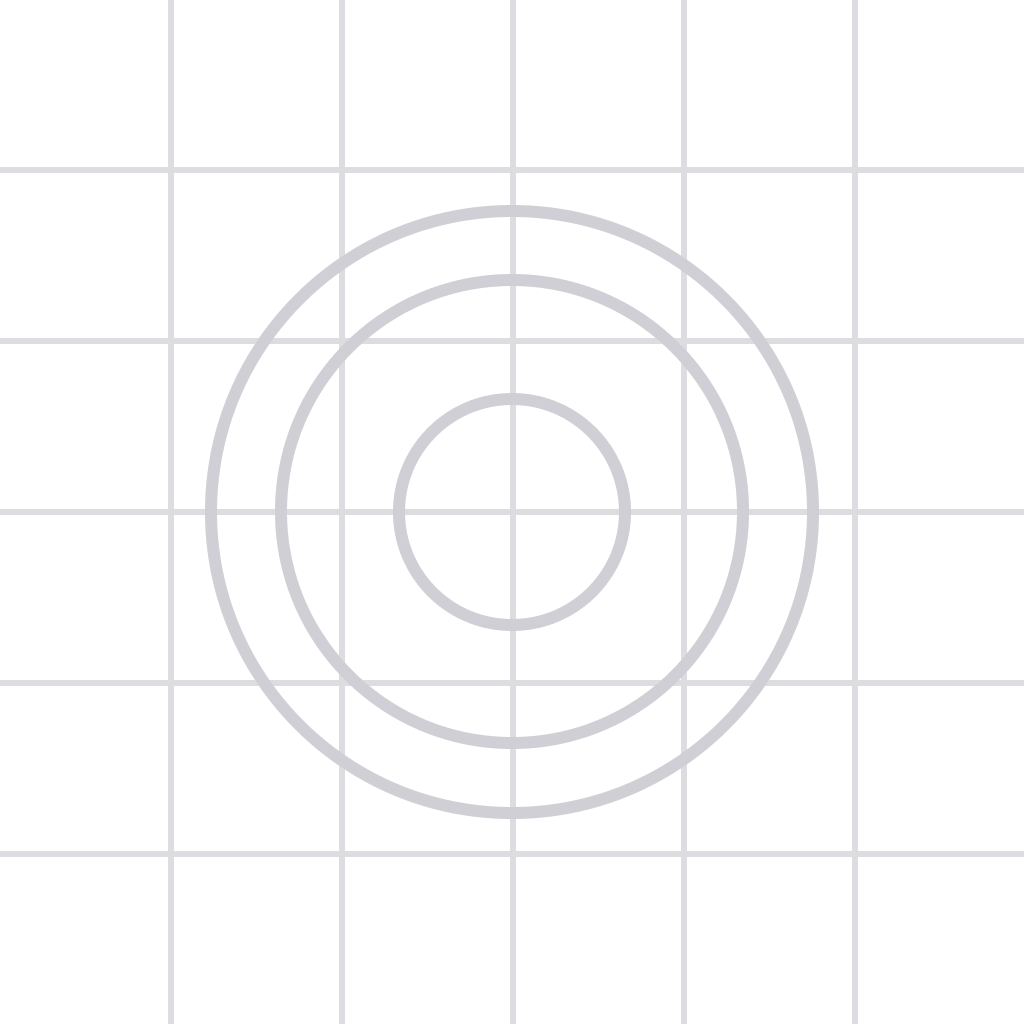
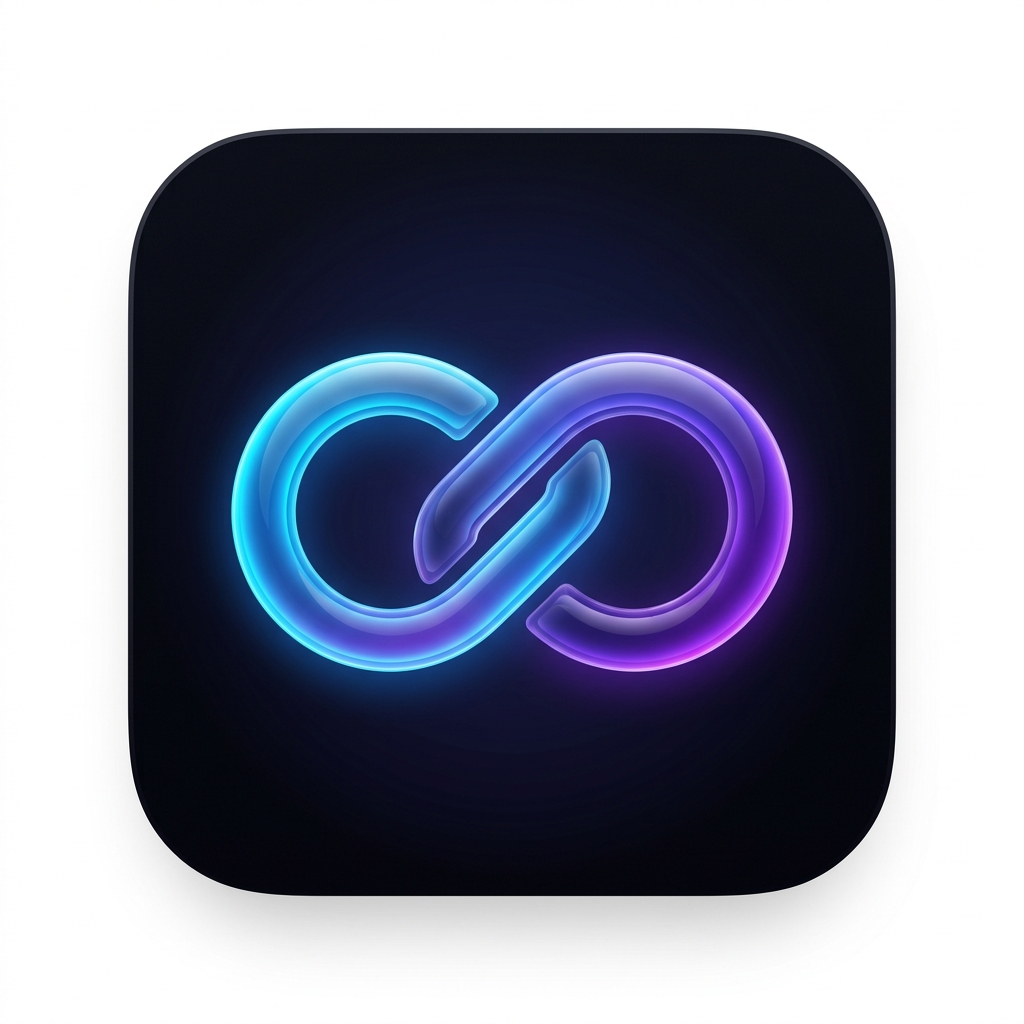
feat(): configurations

diff --git a/app/index.tsx b/app/index.tsx
@@ -1,9 +1,12 @@
 import AsyncStorage from "@react-native-async-storage/async-storage";
 import axios from "axios";
+import * as Clipboard from "expo-clipboard";
 import { useFocusEffect, useRouter } from "expo-router";
 import { useCallback, useEffect, useState } from "react";
 import {
   Alert,
+  AppState,
+  AppStateStatus,
   FlatList,
   Platform,
   RefreshControl,
@@ -47,6 +50,45 @@ export default function Index() {
   // Category Management State
   const [categories, setCategories] = useState(DEFAULT_CATEGORIES);
   const [manageCategoriesVisible, setManageCategoriesVisible] = useState(false);
+
+  // Clipboard State
+  const [clipboardUrl, setClipboardUrl] = useState<string | null>(null);
+  const [showClipboardPrompt, setShowClipboardPrompt] = useState(false);
+  const [savingClipboard, setSavingClipboard] = useState(false);
+
+  const checkClipboard = async () => {
+    try {
+      const hasString = await Clipboard.hasStringAsync();
+      if (!hasString) return;
+
+      const content = await Clipboard.getStringAsync();
+      const urlPattern = /^(https?:\/\/)?([\da-z\.-]+)\.([a-z\.]{2,6})([/\w \.-]*)*\/?(\?.*)?$/;
+      
+      if (urlPattern.test(content)) {
+        const lastSaved = await AsyncStorage.getItem("lastSavedClipboardUrl");
+        if (lastSaved !== content) {
+          setClipboardUrl(content);
+          setShowClipboardPrompt(true);
+        }
+      }
+    } catch (error) {
+      console.error("Clipboard check error:", error);
+    }
+  };
+
+  useEffect(() => {
+    const subscription = AppState.addEventListener("change", (nextAppState: AppStateStatus) => {
+      if (nextAppState === "active") {
+        checkClipboard();
+      }
+    });
+
+    checkClipboard(); // Initial check
+
+    return () => {
+      subscription.remove();
+    };
+  }, []);
 
   useEffect(() => {
     loadCategories();
@@ -129,6 +171,30 @@ export default function Index() {
     setRefreshing(true);
     await fetchLinks();
     setRefreshing(false);
+  };
+
+  const handleSaveClipboard = async () => {
+    if (!clipboardUrl) return;
+    setSavingClipboard(true);
+    try {
+      await axios.post(`${Config.API_URL}/api/links`, { url: clipboardUrl });
+      await AsyncStorage.setItem("lastSavedClipboardUrl", clipboardUrl);
+      setShowClipboardPrompt(false);
+      setClipboardUrl(null);
+      fetchLinks(); // Refresh the list
+    } catch (error) {
+      Alert.alert("Error", "Failed to save link from clipboard");
+    } finally {
+      setSavingClipboard(false);
+    }
+  };
+
+  const handleDismissClipboard = async () => {
+    if (clipboardUrl) {
+      await AsyncStorage.setItem("lastSavedClipboardUrl", clipboardUrl);
+    }
+    setShowClipboardPrompt(false);
+    setClipboardUrl(null);
   };
 
   useFocusEffect(
@@ -272,6 +338,29 @@ export default function Index() {
       )}
 
       <FAB icon="plus" style={styles.fab} onPress={() => router.push("/add")} />
+
+      {/* Clipboard Prompt UI */}
+      {showClipboardPrompt && clipboardUrl && (
+        <View style={styles.clipboardCardContainer}>
+          <View style={styles.clipboardCard}>
+            <View style={styles.clipboardHeader}>
+              <IconButton icon="content-copy" size={24} iconColor={theme.colors.primary} style={{ margin: 0 }} />
+              <Text variant="titleMedium" style={styles.clipboardTitle}>Panoda Link Algılandı</Text>
+            </View>
+            <Text variant="bodyMedium" numberOfLines={1} style={styles.clipboardUrlText}>
+              {clipboardUrl}
+            </Text>
+            <View style={styles.clipboardActions}>
+              <Button mode="text" onPress={handleDismissClipboard} disabled={savingClipboard}>
+                İptal
+              </Button>
+              <Button mode="contained" onPress={handleSaveClipboard} loading={savingClipboard} disabled={savingClipboard} style={{ marginLeft: 8 }}>
+                Kaydet
+              </Button>
+            </View>
+          </View>
+        </View>
+      )}
     </View>
   );
 }
@@ -297,5 +386,40 @@ const styles = StyleSheet.create({
     margin: 16,
     right: 0,
     bottom: 0,
+  },
+  clipboardCardContainer: {
+    position: "absolute",
+    bottom: 90,
+    left: 16,
+    right: 16,
+    alignItems: "center",
+  },
+  clipboardCard: {
+    backgroundColor: "rgba(255, 255, 255, 0.95)",
+    borderRadius: 16,
+    padding: 16,
+    width: "100%",
+    shadowColor: "#000",
+    shadowOffset: { width: 0, height: 4 },
+    shadowOpacity: 0.15,
+    shadowRadius: 12,
+    elevation: 8,
+  },
+  clipboardHeader: {
+    flexDirection: "row",
+    alignItems: "center",
+    marginBottom: 8,
+  },
+  clipboardTitle: {
+    fontWeight: "bold",
+    marginLeft: 8,
+  },
+  clipboardUrlText: {
+    color: "#666",
+    marginBottom: 16,
+  },
+  clipboardActions: {
+    flexDirection: "row",
+    justifyContent: "flex-end",
   },
 });

diff --git a/components/LinkCard.tsx b/components/LinkCard.tsx
@@ -1,5 +1,5 @@
 import React from "react";
-import { Animated, Image, Linking, StyleSheet, View } from "react-native";
+import { Animated, Image, Linking, Share, StyleSheet, View } from "react-native";
 import { Swipeable } from "react-native-gesture-handler";
 import { Card, IconButton, Text, useTheme } from "react-native-paper";
 
@@ -27,6 +27,17 @@ export default function LinkCard({
 
   const handlePress = () => {
     Linking.openURL(url);
+  };
+
+  const handleShare = async () => {
+    try {
+      await Share.share({
+        message: title ? `${title}\n${url}` : url,
+        url: url, // iOS only
+      });
+    } catch (error) {
+      console.error("Error sharing link:", error);
+    }
   };
 
   const renderRightActions = (
@@ -85,6 +96,12 @@ export default function LinkCard({
                   style={{ margin: 0, marginRight: -8 }}
                 />
               )}
+              <IconButton
+                icon="share-variant"
+                size={20}
+                onPress={handleShare}
+                style={{ margin: 0, marginRight: -8 }}
+              />
             </View>
 
             <Text variant="titleMedium" numberOfLines={2} style={styles.title}>